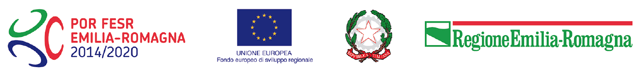
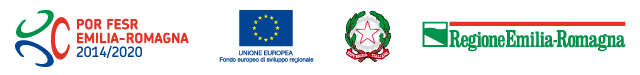
crediti e grafica partecipa

diff --git a/www/index.html b/www/index.html
@@ -194,19 +194,19 @@
                         <div id="molinella" class="tabella">
                             <div class="inq">
                                 <div class="tinq">PM10: <span></span></div>
-                                <div id="barpm10" class="barra"><span class="barrain"></span></div>
+                                <div class="barpm10 barra"><span class="barrain"></span></div>
                             </div>
                             <div class="inq">
                                 <div class="tinq">O3: <span></span></div>
-                                <div id="baro3" class="barra"><span class="barrain"></span></div>
+                                <div class="baro3 barra"><span class="barrain"></span></div>
                             </div>
                             <div class="inq">
                                 <div class="tinq">NO2: <span></span></div>
-                                <div id="barno2" class="barra"><span class="barrain"></span></div>
+                                <div class="barno2 barra"><span class="barrain"></span></div>
                             </div>
                             <div class="inq">
                                 <div class="tinq">PM2.5: <span></span></div>
-                                <div id="barpm2" class="barra"><span class="barrain"></span></div>
+                                <div class="barpm2 barra"><span class="barrain"></span></div>
                             </div>
                         </div>
                         <div class="blackbutton">
@@ -215,19 +215,19 @@
                         <div id="porretta" class="tabella">
                             <div class="inq">
                                 <div class="tinq">PM10: <span></span></div>
-                                <div id="barpm10" class="barra"><span class="barrain"></span></div>
+                                <div class="barpm10 barra"><span class="barrain"></span></div>
                             </div>
                             <div class="inq">
                                 <div class="tinq">O3: <span></span></div>
-                                <div id="baro3" class="barra"><span class="barrain"></span></div>
+                                <div class="baro3 barra"><span class="barrain"></span></div>
                             </div>
                             <div class="inq">
                                 <div class="tinq">NO2: <span></span></div>
-                                <div id="barno2" class="barra"><span class="barrain"></span></div>
+                                <div class="barno2 barra"><span class="barrain"></span></div>
                             </div>
                             <div class="inq">
                                 <div class="tinq">PM2.5: <span></span></div>
-                                <div id="barpm2" class="barra"><span class="barrain"></span></div>
+                                <div class="barpm2 barra"><span class="barrain"></span></div>
                             </div>
                         </div>
                         <div class="blackbutton">
@@ -236,19 +236,19 @@
                         <div id="bchiarini" class="tabella">
                             <div class="inq">
                                 <div class="tinq">PM10: <span></span></div>
-                                <div id="barpm10" class="barra"><span class="barrain"></span></div>
+                                <div class="barpm10 barra"><span class="barrain"></span></div>
                             </div>
                             <div class="inq">
                                 <div class="tinq">O3: <span></span></div>
-                                <div id="baro3" class="barra"><span class="barrain"></span></div>
+                                <div class="baro3 barra"><span class="barrain"></span></div>
                             </div>
                             <div class="inq">
                                 <div class="tinq">NO2: <span></span></div>
-                                <div id="barno2" class="barra"><span class="barrain"></span></div>
+                                <div class="barno2 barra"><span class="barrain"></span></div>
                             </div>
                             <div class="inq">
                                 <div class="tinq">PM2.5: <span></span></div>
-                                <div id="barpm2" class="barra"><span class="barrain"></span></div>
+                                <div class="barpm2 barra"><span class="barrain"></span></div>
                             </div>
                         </div>
                         <div class="blackbutton">
@@ -257,19 +257,19 @@
                         <div id="bgiardini" class="tabella">
                             <div class="inq">
                                 <div class="tinq">PM10: <span></span></div>
-                                <div id="barpm10" class="barra"><span class="barrain"></span></div>
+                                <div class="barpm10 barra"><span class="barrain"></span></div>
                             </div>
                             <div class="inq">
                                 <div class="tinq">O3: <span></span></div>
-                                <div id="baro3" class="barra"><span class="barrain"></span></div>
+                                <div class="baro3 barra"><span class="barrain"></span></div>
                             </div>
                             <div class="inq">
                                 <div class="tinq">NO2: <span></span></div>
-                                <div id="barno2" class="barra"><span class="barrain"></span></div>
+                                <div class="barno2 barra"><span class="barrain"></span></div>
                             </div>
                             <div class="inq">
                                 <div class="tinq">PM2.5: <span></span></div>
-                                <div id="barpm2" class="barra"><span class="barrain"></span></div>
+                                <div class="barpm2 barra"><span class="barrain"></span></div>
                             </div>
                         </div>
                         <div class="blackbutton">
@@ -278,19 +278,19 @@
                         <div id="imola" class="tabella">
                             <div class="inq">
                                 <div class="tinq">PM10: <span></span></div>
-                                <div id="barpm10" class="barra"><span class="barrain"></span></div>
+                                <div class="barpm10 barra"><span class="barrain"></span></div>
                             </div>
                             <div class="inq">
                                 <div class="tinq">O3: <span></span></div>
-                                <div id="baro3" class="barra"><span class="barrain"></span></div>
+                                <div class="baro3 barra"><span class="barrain"></span></div>
                             </div>
                             <div class="inq">
                                 <div class="tinq">NO2: <span></span></div>
-                                <div id="barno2" class="barra"><span class="barrain"></span></div>
+                                <div class="barno2 barra"><span class="barrain"></span></div>
                             </div>
                             <div class="inq">
                                 <div class="tinq">PM2.5: <span></span></div>
-                                <div id="barpm2" class="barra"><span class="barrain"></span></div>
+                                <div class="barpm2 barra"><span class="barrain"></span></div>
                             </div>
                         </div>
                         <div class="blackbutton">
@@ -299,19 +299,19 @@
                         <div id="bfelice" class="tabella">
                             <div class="inq">
                                 <div class="tinq">PM10: <span></span></div>
-                                <div id="barpm10" class="barra"><span class="barrain"></span></div>
+                                <div class="barpm10 barra"><span class="barrain"></span></div>
                             </div>
                             <div class="inq">
                                 <div class="tinq">O3: <span></span></div>
-                                <div id="baro3" class="barra"><span class="barrain"></span></div>
+                                <div class="baro3 barra"><span class="barrain"></span></div>
                             </div>
                             <div class="inq">
                                 <div class="tinq">NO2: <span></span></div>
-                                <div id="barno2" class="barra"><span class="barrain"></span></div>
+                                <div class="barno2 barra"><span class="barrain"></span></div>
                             </div>
                             <div class="inq">
                                 <div class="tinq">PM2.5: <span></span></div>
-                                <div id="barpm2" class="barra"><span class="barrain"></span></div>
+                                <div class="barpm2 barra"><span class="barrain"></span></div>
                             </div>
                         </div>
                         <div class="blackbutton">
@@ -320,19 +320,19 @@
                         <div id="slazzaro" class="tabella">
                             <div class="inq">
                                 <div class="tinq">PM10: <span></span></div>
-                                <div id="barpm10" class="barra"><span class="barrain"></span></div>
+                                <div class="barpm10 barra"><span class="barrain"></span></div>
                             </div>
                             <div class="inq">
                                 <div class="tinq">O3: <span></span></div>
-                                <div id="baro3" class="barra"><span class="barrain"></span></div>
+                                <div class="baro3 barra"><span class="barrain"></span></div>
                             </div>
                             <div class="inq">
                                 <div class="tinq">NO2: <span></span></div>
-                                <div id="barno2" class="barra"><span class="barrain"></span></div>
+                                <div class="barno2 barra"><span class="barrain"></span></div>
                             </div>
                             <div class="inq">
                                 <div class="tinq">PM2.5: <span></span></div>
-                                <div id="barpm2" class="barra"><span class="barrain"></span></div>
+                                <div class="barpm2 barra"><span class="barrain"></span></div>
                             </div>
                         </div>
                         <hr style="margin:2em 0;">

diff --git a/www/js/index.js b/www/js/index.js
@@ -28,11 +28,10 @@ var app = {
     // 'pause', 'resume', etc.
     onDeviceReady: function () {
         //DANGER solo per android, decommentare!
-        //checkConnection();
+        checkConnection();
         /* DANGER: solo per browser, dopo togliere!*/
-        getdatigrezzi();
-
-        frasedelgiorno();
+        //getdatigrezzi();
+        //frasedelgiorno();
     },
 
 
@@ -68,9 +67,10 @@ function checkConnection() {
 
     } else {
         //display_results("h1", "ok");
-        getdatiiqa();
+        
         getdatigrezzi();
         frasedelgiorno();
+        /* getdatiiqa();  in cascata a frasedelgiorno();*/
         return true;
     }
 }
@@ -465,7 +465,7 @@ function connesso() {
     $("#tabellainquinanti").removeClass("hide");
 }
 
-//var colori per gratio, per calcolare valore del gradiente di sfondo
+//var colori per ratio, per calcolare valore del gradiente di sfondo
 var ratio = "";
 var baseratio = 0;
 var colorebasso = "";
@@ -565,12 +565,11 @@ function scrivifraseRSS() {
     console.log("fraseRSS online!");
     //scrivo
     display_results("#fraseiqa", titleRSS);
-    //display_results("#sottofraseiqa", descriptionRSS);
     $("#sottofraseiqa").html(descriptionRSS);
 }
 /* test frasi offline http://api.jquery.com/jquery.ajax/  */
 
-
+// frase RSS prima di tutto!, la funzione è chiamata anche prima del iqa sennò arriva tutto in ritardo
 
 function scrivifrase(argomento) {
 
@@ -661,8 +660,6 @@ function arrayordinato(numero) {
     }).map(Number.call, Number)
 }
 
-
-
 // https://bost.ocks.org/mike/shuffle/
 
 function shuffle(array) {
@@ -685,15 +682,15 @@ function shuffle(array) {
     return array;
 }
 
-
 // secondo repo arpa: dati grezzi centraline
 /*  
-dalla 29 alla 25, pm10, no2, benzene, pm25  
+dalla 29 alla 35, pm10, no2, benzene, pm25  
 https://apps.arpae.it/qualita-aria/bollettino-qa-provinciale/bo
 */
 
 var datigrezzi = ""
 var stazioni = [29, 30, 31, 32, 33, 34, 35];
+var nomistaz = []
 var inquinantilist = ["pm10", "no2", "benzene", "pm25"]
 var pm10 = [];
 var no2 = [];
@@ -708,18 +705,24 @@ function stampainquinanti() {
         var datogpm10 = datigrezzi[stazionep];
         //for (i = 0; i < inquinantilist.length; i++) {
         //var inquinante = inquinantilist[i];
-        console.log(stazionep);
+        console.log("ciclo-stazioni" + stazionep);
         //console.log(datogpm10);
         //console.log(inquinante);
         datogpm10 = datogpm10.pm10;
         datogpm10 = datogpm10.trim();
-        if (datogpm10 == "n.d.") {} else {
+        if (datogpm10 == "n.d.") {
+            
+        } else {
             pm10.push(datogpm10);
         };
 
     }
-    console.log(pm10);
-    var maggiorinq = Math.max.apply(null, pm10);
+    // console.log(pm10);
+   trovamaggiore();
+};
+
+function trovamaggiore(){
+     var maggiorinq = Math.max.apply(null, pm10);
     console.log(maggiorinq);
     iqapm10 = (maggiorinq / 50) * 100;
     console.log(iqapm10);
@@ -729,12 +732,11 @@ function stampainquinanti() {
 
 function stampaiqapm10() {
     display_results("#pm10 .tinq > span", iqapm10);
-    stampacoloreiqainquinante(iqapm10);
-    console.log("iqa pm10 " + iqapm10);
+    stampacoloreiqainquinante("pm10",iqapm10);
 };
 
-function stampacoloreiqainquinante(inquinante) {
-    console.log("iqa inquinante " + inquinante);
+function stampacoloreiqainquinante(nomeinq,inquinante) {
+    console.log("stampa iqa inquinante "+nomeinq + inquinante);
     switch (true) {
         case (inquinante < 50):
             calcolagradienteinquinante(inquinante, 0, "00E676", "FFEA00");

diff --git a/www/css/app.css b/www/css/app.css
@@ -2,9 +2,9 @@
 
 img.logoaria {
     width: 100%;
-    min-width: 100%;
     height: auto;
     max-width: 640px;
+    display: block;
 }
 p.loghi{
     margin-top:1em;
